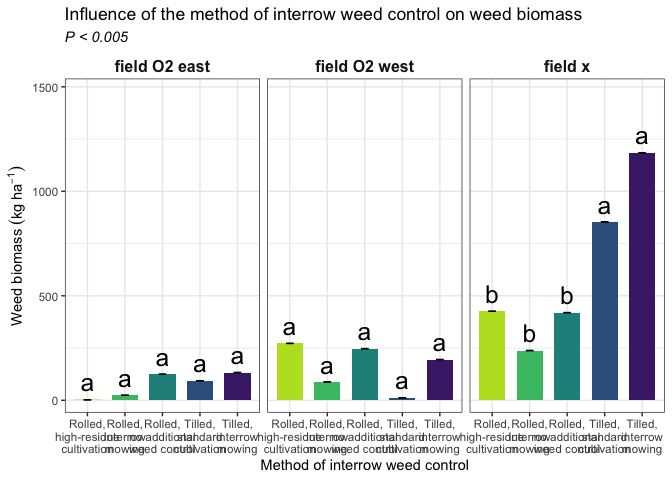
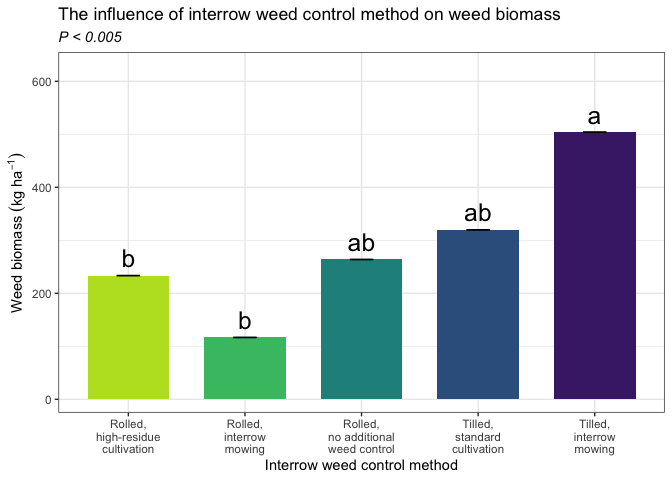
knitted

Changed region(s): [[0.0, 0.125, 1.0, 1.0], [0.0938, 0.0, 0.875, 0.0938], [0.375, 0.5938, 0.4062, 0.625]]

diff --git a/rmarkdowns/weed_biomass.md b/rmarkdowns/weed_biomass.md
@@ -85,52 +85,124 @@ kable(head(weed_biomass_clean))
 | CU_B1_P105 | field x | 2023 | RIC | 1 | 105 | 41.0 | 230.285 | 0.495 | 22.025 | 22.520 | 39 | 473.79 | 45.04 | 450.4 | 401.83742 |
 | CU_B1_P201 | field x | 2023 | RIC | 2 | 201 | 36.5 | 208.105 | 6.395 | 19.460 | 25.855 | 33.5 | 484.04 | 51.71 | 517.1 | 461.34576 |
 
-<br> \### **block is fixed** \#Ask tyler about model format, should
+<br> \### **block is random** \#Ask tyler about model format, should
 block always be fixed, etc. should location be nested in year? Do i need
 to transform data if zeros are present? How to separate year from
 location?
 
-``` r
-fixed <- lmer(weed_biomass_kg_ha  ~ location*weed_control + block 
-                     +(1 | year/location) , data = weed_biomass_clean)
-```
-
-    ## Warning in as_lmerModLT(model, devfun): Model may not have converged with 2
-    ## eigenvalues close to zero: 2.0e-09 1.0e-09
+Last meeting we updated the model and determined that for most of mhy
+work, block should be random using model below and that post hoc
+comparisons should use TUKEY ratther the Fischer.
 
 ``` r
-resid_panel(fixed)
-```
+random <- lmer(weed_biomass_kg_ha  ~ location+weed_control + location:weed_control +(1|location:block) , data = weed_biomass_clean)
 
-![](weed_biomass_files/figure-gfm/unnamed-chunk-4-1.png)<!-- --> \###
-**block is random**
-
-``` r
-random <- lmer(weed_biomass_kg_ha  ~ weed_control + (1|block)  , data = weed_biomass_clean)
-```
-
-    ## boundary (singular) fit: see help('isSingular')
-
-``` r
 resid_panel(random)
 ```
 
-![](weed_biomass_files/figure-gfm/unnamed-chunk-5-1.png)<!-- -->
+![](weed_biomass_files/figure-gfm/unnamed-chunk-4-1.png)<!-- -->
+
+``` r
+summary(random)
+```
+
+    ## Linear mixed model fit by REML. t-tests use Satterthwaite's method [
+    ## lmerModLmerTest]
+    ## Formula: 
+    ## weed_biomass_kg_ha ~ location + weed_control + location:weed_control +  
+    ##     (1 | location:block)
+    ##    Data: weed_biomass_clean
+    ## 
+    ## REML criterion at convergence: 639.7
+    ## 
+    ## Scaled residuals: 
+    ##      Min       1Q   Median       3Q      Max 
+    ## -1.50265 -0.50660 -0.09458  0.22898  2.74794 
+    ## 
+    ## Random effects:
+    ##  Groups         Name        Variance Std.Dev.
+    ##  location:block (Intercept)  2151     46.38  
+    ##  Residual                   52991    230.20  
+    ## Number of obs: 60, groups:  location:block, 12
+    ## 
+    ## Fixed effects:
+    ##                                       Estimate Std. Error       df t value
+    ## (Intercept)                              2.275    117.412   44.728   0.019
+    ## locationfield O2 west                  269.975    166.045   44.728   1.626
+    ## locationfield x                        423.625    166.045   44.728   2.551
+    ## weed_controlRIM                         21.950    162.774   36.000   0.135
+    ## weed_controlRNO                        122.475    162.774   36.000   0.752
+    ## weed_controlTIC                         91.450    162.774   36.000   0.562
+    ## weed_controlTIM                        130.575    162.774   36.000   0.802
+    ## locationfield O2 west:weed_controlRIM -206.425    230.197   36.000  -0.897
+    ## locationfield x:weed_controlRIM       -209.700    230.197   36.000  -0.911
+    ## locationfield O2 west:weed_controlRNO -147.525    230.197   36.000  -0.641
+    ## locationfield x:weed_controlRNO       -128.825    230.197   36.000  -0.560
+    ## locationfield O2 west:weed_controlTIC -351.550    230.197   36.000  -1.527
+    ## locationfield x:weed_controlTIC        336.375    230.197   36.000   1.461
+    ## locationfield O2 west:weed_controlTIM -207.825    230.197   36.000  -0.903
+    ## locationfield x:weed_controlTIM        627.875    230.197   36.000   2.728
+    ##                                       Pr(>|t|)   
+    ## (Intercept)                             0.9846   
+    ## locationfield O2 west                   0.1110   
+    ## locationfield x                         0.0142 * 
+    ## weed_controlRIM                         0.8935   
+    ## weed_controlRNO                         0.4567   
+    ## weed_controlTIC                         0.5777   
+    ## weed_controlTIM                         0.4277   
+    ## locationfield O2 west:weed_controlRIM   0.3758   
+    ## locationfield x:weed_controlRIM         0.3684   
+    ## locationfield O2 west:weed_controlRNO   0.5257   
+    ## locationfield x:weed_controlRNO         0.5792   
+    ## locationfield O2 west:weed_controlTIC   0.1355   
+    ## locationfield x:weed_controlTIC         0.1526   
+    ## locationfield O2 west:weed_controlTIM   0.3726   
+    ## locationfield x:weed_controlTIM         0.0098 **
+    ## ---
+    ## Signif. codes:  0 '***' 0.001 '**' 0.01 '*' 0.05 '.' 0.1 ' ' 1
+
+    ## 
+    ## Correlation matrix not shown by default, as p = 15 > 12.
+    ## Use print(x, correlation=TRUE)  or
+    ##     vcov(x)        if you need it
+
+``` r
+weed_biomass_clean |> count(year,location
+                            ,weed_control)
+```
+
+    ## # A tibble: 15 × 4
+    ##    year  location      weed_control     n
+    ##    <fct> <fct>         <fct>        <int>
+    ##  1 2023  field x       RIC              4
+    ##  2 2023  field x       RIM              4
+    ##  3 2023  field x       RNO              4
+    ##  4 2023  field x       TIC              4
+    ##  5 2023  field x       TIM              4
+    ##  6 2024  field O2 east RIC              4
+    ##  7 2024  field O2 east RIM              4
+    ##  8 2024  field O2 east RNO              4
+    ##  9 2024  field O2 east TIC              4
+    ## 10 2024  field O2 east TIM              4
+    ## 11 2024  field O2 west RIC              4
+    ## 12 2024  field O2 west RIM              4
+    ## 13 2024  field O2 west RNO              4
+    ## 14 2024  field O2 west TIC              4
+    ## 15 2024  field O2 west TIM              4
 
 \##**Joint test**
 
 ``` r
-fixed |> 
+random |> 
   joint_tests() |> 
   kable()  
 ```
 
-|     | model term            | df1 |      df2 | F.ratio |   p.value |
-|:----|:----------------------|----:|---------:|--------:|----------:|
-| 1   | location              |   2 | 776767.1 |   0.161 | 0.8516331 |
-| 3   | weed_control          |   4 |     42.0 |   4.181 | 0.0061225 |
-| 4   | block                 |   3 |     42.0 |   0.303 | 0.8227344 |
-| 2   | location:weed_control |   8 |     42.0 |   3.609 | 0.0028349 |
+|     | model term            | df1 | df2 | F.ratio |   p.value |
+|:----|:----------------------|----:|----:|--------:|----------:|
+| 1   | location              |   2 |   9 |  27.281 | 0.0001513 |
+| 3   | weed_control          |   4 |  36 |   4.563 | 0.0043917 |
+| 2   | location:weed_control |   8 |  36 |   3.938 | 0.0019773 |
 
 <br>
 
@@ -138,7 +210,7 @@ fixed |>
 
 ``` r
 means <- 
- emmeans(fixed, ~  weed_control)
+ emmeans(random, ~  weed_control)
 # Optional: Adjust for multiple comparisons (e.g., using Tukey's method)
 
 pairwise_comparisons<- pairs(means) 
@@ -147,74 +219,100 @@ kable(head(pairwise_comparisons))
 
 | contrast  |   estimate |      SE |  df |    t.ratio |   p.value |
 |:----------|-----------:|--------:|----:|-----------:|----------:|
-| RIC - RIM |  116.75833 | 98.1727 |  42 |  1.1893157 | 0.8088102 |
-| RIC - RNO |  -30.35833 | 98.1727 |  42 | -0.3092340 | 0.9998025 |
-| RIC - TIC |  -86.39167 | 98.1727 |  42 | -0.8799969 | 0.9452934 |
-| RIC - TIM | -270.59167 | 98.1727 |  42 | -2.7562823 | 0.0505728 |
-| RIM - RNO | -147.11667 | 98.1727 |  42 | -1.4985497 | 0.5995633 |
-| RIM - TIC | -203.15000 | 98.1727 |  42 | -2.0693126 | 0.2399844 |
+| RIC - RIM |  116.75833 | 93.9776 |  36 |  1.2424060 | 0.7784467 |
+| RIC - RNO |  -30.35833 | 93.9776 |  36 | -0.3230380 | 0.9997472 |
+| RIC - TIC |  -86.39167 | 93.9776 |  36 | -0.9192793 | 0.9338602 |
+| RIC - TIM | -270.59167 | 93.9776 |  36 | -2.8793208 | 0.0393548 |
+| RIM - RNO | -147.11667 | 93.9776 |  36 | -1.5654439 | 0.5549704 |
+| RIM - TIC | -203.15000 | 93.9776 |  36 | -2.1616853 | 0.2042768 |
 
-### **Fisher’s method for comparing means**
+### **Tukey’s method for comparing means**
 
 ``` r
 #mowing
-cld_weed_control_fisher <-cld(emmeans(fixed, ~  weed_control , type = "response"), Letters = letters, sort = TRUE, adjust="none", reversed=TRUE)
+cld_weed_control_tukey <-cld(emmeans(random, ~  weed_control , type = "response"), Letters = letters, sort = TRUE, reversed=TRUE)
 ```
 
     ## NOTE: Results may be misleading due to involvement in interactions
 
 ``` r
-cld_weed_control_fisher
+cld_weed_control_tukey
 ```
 
-    ##  weed_control emmean  SE    df lower.CL upper.CL .group
-    ##  TIM             504 446 71338     -369     1378  a    
-    ##  TIC             320 446 71338     -554     1193  ab   
-    ##  RNO             264 446 71338     -610     1137   bc  
-    ##  RIC             233 446 71338     -640     1107   bc  
-    ##  RIM             117 446 71338     -757      990    c  
+    ##  weed_control emmean   SE   df lower.CL upper.CL .group
+    ##  TIM             504 67.8 44.7    367.5      641  a    
+    ##  TIC             320 67.8 44.7    183.3      456  ab   
+    ##  RNO             264 67.8 44.7    127.3      400  ab   
+    ##  RIC             233 67.8 44.7     96.9      370   b   
+    ##  RIM             117 67.8 44.7    -19.8      253   b   
     ## 
-    ## Results are averaged over the levels of: location, block 
+    ## Results are averaged over the levels of: location 
     ## Degrees-of-freedom method: kenward-roger 
     ## Confidence level used: 0.95 
+    ## P value adjustment: tukey method for comparing a family of 5 estimates 
     ## significance level used: alpha = 0.05 
     ## NOTE: If two or more means share the same grouping symbol,
     ##       then we cannot show them to be different.
     ##       But we also did not show them to be the same.
 
 ``` r
-#mowing
-cld_weed_control_location_fisher <-cld(emmeans(fixed, ~  weed_control|location , type = "response"), Letters = letters, sort = TRUE, adjust="none", reversed=TRUE)
-cld_weed_control_location_fisher
+#location
+cld_location_tukey <-cld(emmeans(random, ~  location , type = "response"), Letters = letters, sort = TRUE, reversed=TRUE)
+```
+
+    ## NOTE: Results may be misleading due to involvement in interactions
+
+``` r
+cld_location_tukey
+```
+
+    ##  location      emmean   SE df lower.CL upper.CL .group
+    ##  field x        624.3 56.5  9    496.6      752  a    
+    ##  field O2 west  162.9 56.5  9     35.2      291   b   
+    ##  field O2 east   75.6 56.5  9    -52.1      203   b   
+    ## 
+    ## Results are averaged over the levels of: weed_control 
+    ## Degrees-of-freedom method: kenward-roger 
+    ## Confidence level used: 0.95 
+    ## P value adjustment: tukey method for comparing a family of 3 estimates 
+    ## significance level used: alpha = 0.05 
+    ## NOTE: If two or more means share the same grouping symbol,
+    ##       then we cannot show them to be different.
+    ##       But we also did not show them to be the same.
+
+``` r
+#weed_control|location
+cld_weed_control_location_tukey <-cld(emmeans(random, ~  weed_control|location , type = "response"), Letters = letters, sort = TRUE, reversed=TRUE)
+cld_weed_control_location_tukey
 ```
 
     ## location = field O2 east:
-    ##  weed_control  emmean  SE    df lower.CL upper.CL .group
-    ##  TIM           132.85 721 54213    -1280     1545  a    
-    ##  RNO           124.75 721 54213    -1288     1537  a    
-    ##  TIC            93.72 721 54213    -1319     1506  a    
-    ##  RIM            24.23 721 54213    -1388     1437  a    
-    ##  RIC             2.27 721 54213    -1410     1415  a    
+    ##  weed_control  emmean  SE   df lower.CL upper.CL .group
+    ##  TIM           132.85 117 44.7  -103.67      369  a    
+    ##  RNO           124.75 117 44.7  -111.77      361  a    
+    ##  TIC            93.72 117 44.7  -142.79      330  a    
+    ##  RIM            24.23 117 44.7  -212.29      261  a    
+    ##  RIC             2.27 117 44.7  -234.24      239  a    
     ## 
     ## location = field O2 west:
-    ##  weed_control  emmean  SE    df lower.CL upper.CL .group
-    ##  RIC           272.25 721 54213    -1140     1685  a    
-    ##  RNO           247.20 721 54213    -1165     1660  a    
-    ##  TIM           195.00 721 54213    -1218     1608  a    
-    ##  RIM            87.78 721 54213    -1325     1500  a    
-    ##  TIC            12.15 721 54213    -1400     1425  a    
+    ##  weed_control  emmean  SE   df lower.CL upper.CL .group
+    ##  RIC           272.25 117 44.7    35.73      509  a    
+    ##  RNO           247.20 117 44.7    10.68      484  a    
+    ##  TIM           195.00 117 44.7   -41.52      432  a    
+    ##  RIM            87.78 117 44.7  -148.74      324  a    
+    ##  TIC            12.15 117 44.7  -224.37      249  a    
     ## 
     ## location = field x:
-    ##  weed_control  emmean  SE    df lower.CL upper.CL .group
-    ##  TIM          1184.35 721 54213     -228     2597  a    
-    ##  TIC           853.73 721 54213     -559     2266  a    
-    ##  RIC           425.90 721 54213     -987     1838   b   
-    ##  RNO           419.55 721 54213     -993     1832   b   
-    ##  RIM           238.15 721 54213    -1174     1651   b   
+    ##  weed_control  emmean  SE   df lower.CL upper.CL .group
+    ##  TIM          1184.35 117 44.7   947.83     1421  a    
+    ##  TIC           853.73 117 44.7   617.21     1090  ab   
+    ##  RIC           425.90 117 44.7   189.38      662   bc  
+    ##  RNO           419.55 117 44.7   183.03      656   bc  
+    ##  RIM           238.15 117 44.7     1.63      475    c  
     ## 
-    ## Results are averaged over the levels of: block 
     ## Degrees-of-freedom method: kenward-roger 
     ## Confidence level used: 0.95 
+    ## P value adjustment: tukey method for comparing a family of 5 estimates 
     ## significance level used: alpha = 0.05 
     ## NOTE: If two or more means share the same grouping symbol,
     ##       then we cannot show them to be different.
@@ -228,8 +326,8 @@ cld_weed_control_location_fisher
 Y value?
 
 ``` r
-clean_combined |> 
-  left_join(cld_weed_control_fisher) |> 
+weed_biomass_clean |> 
+  left_join(cld_weed_control_tukey) |> 
   ggplot(aes(x = weed_control, y = emmean, fill = weed_control)) +
   stat_summary(geom = "bar", fun = "mean", width = 0.7) +
   stat_summary(geom = "errorbar", fun.data = "mean_se", width = 0.2) +
@@ -255,18 +353,18 @@ clean_combined |>
   )
 ```
 
-![](weed_biomass_files/figure-gfm/unnamed-chunk-10-1.png)<!-- -->
+![](weed_biomass_files/figure-gfm/unnamed-chunk-11-1.png)<!-- -->
 
 ``` r
 ggsave("weed_biomass_weed_control.png", width = 8, height = 6, dpi = 300)
 ```
 
-## **weed_control:location**
+## \*\*weed_control:location\*
 
 ``` r
-clean_combined |> 
-  left_join(cld_weed_control_location_fisher) |> 
-  ggplot(aes(x = weed_control, y = emmean, fill = weed_control)) +
+weed_biomass_clean |> 
+  left_join(cld_weed_control_location_tukey) |> 
+  ggplot(aes(x = weed_control, y = weed_biomass_kg_ha, fill = weed_control)) +
   facet_wrap(~location )+
   stat_summary(geom = "bar", fun = "mean", width = 0.7) +
   stat_summary(geom = "errorbar", fun.data = "mean_se", width = 0.2) +
@@ -292,8 +390,11 @@ clean_combined |>
   )
 ```
 
-![](weed_biomass_files/figure-gfm/unnamed-chunk-11-1.png)<!-- -->
+![](weed_biomass_files/figure-gfm/unnamed-chunk-12-1.png)<!-- -->
 
 ``` r
 ggsave("weed_biomass_weed_control_location.png", width = 12, height = 6, dpi = 300)
 ```
+
+\#Ask tyler if a transformation may be appopriate due to such low values
+and number of zeros for weeds in field O2 East and O2 West
